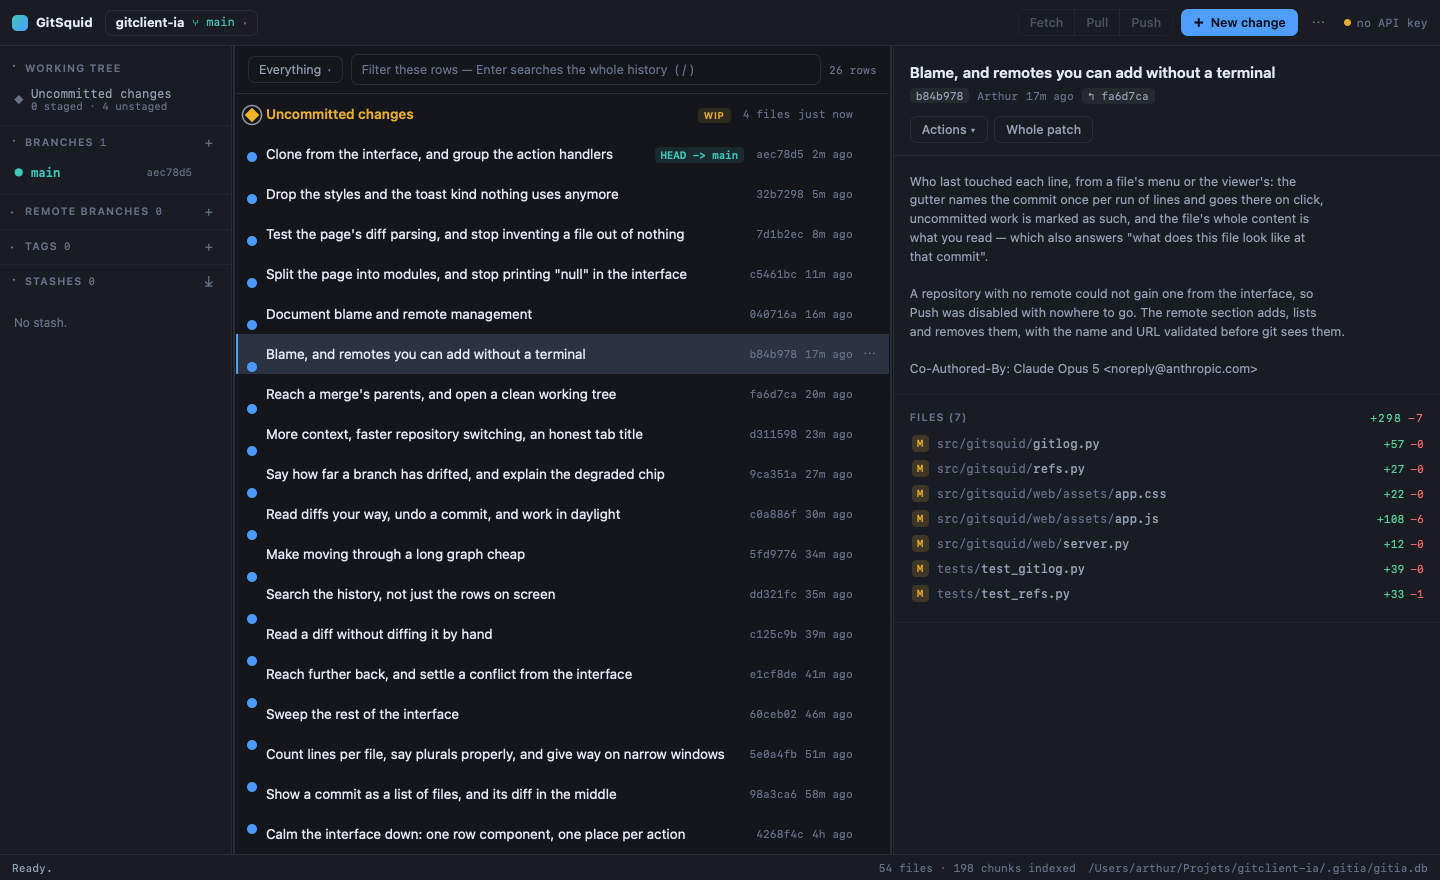
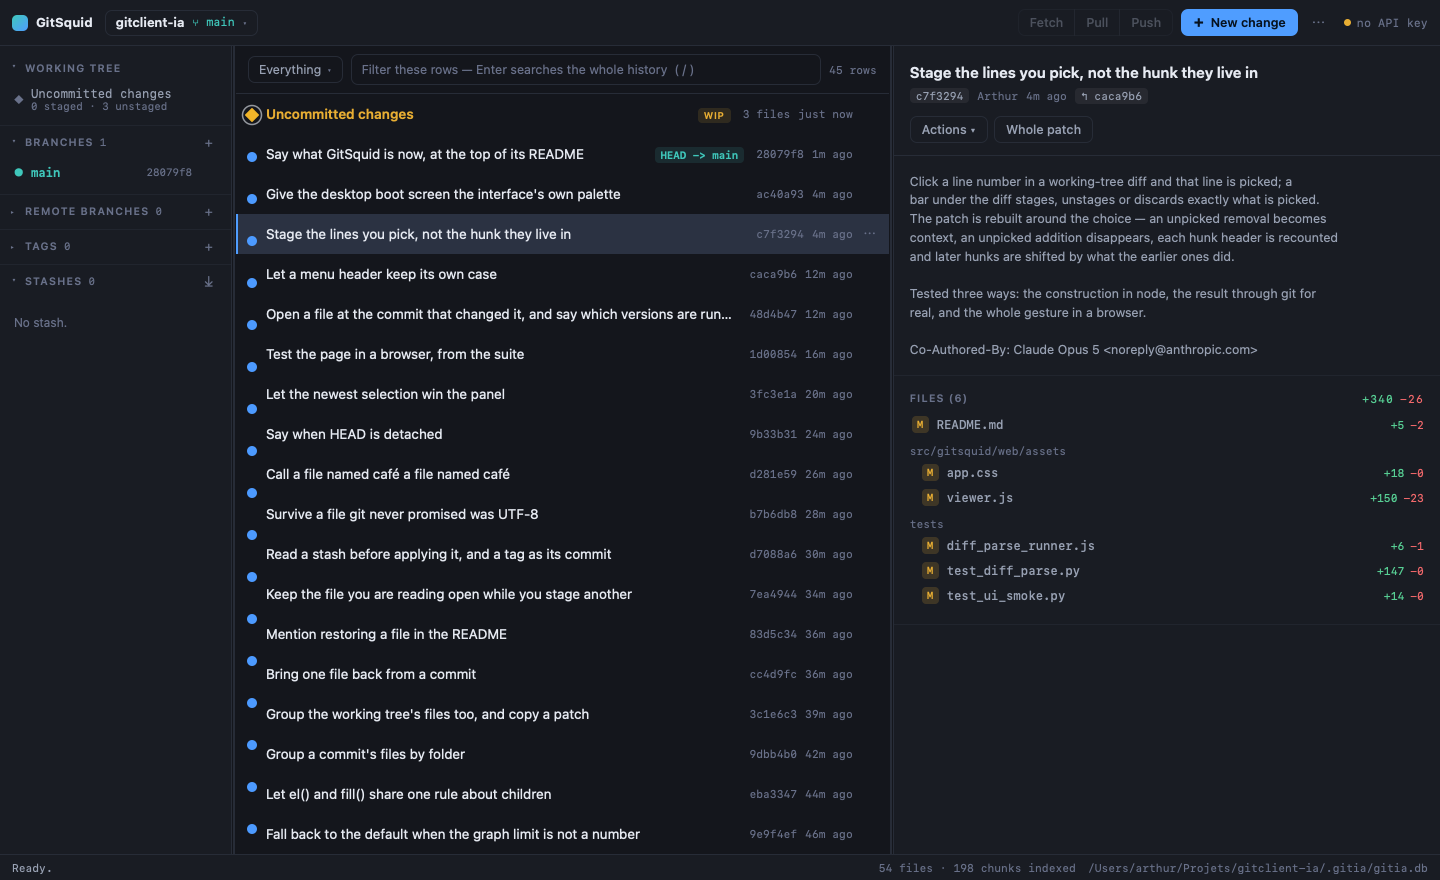
Name the branch on the commit button, and warn when there is none
"Commit 3 files" said nothing about where they were going; it now says
"to main". On a detached HEAD it says instead that no branch is checked
out and that the commit would be easy to lose — the one moment where
that matters.

Screenshots refreshed to the interface as it stands.

diff --git a/src/gitsquid/web/assets/panels.js b/src/gitsquid/web/assets/panels.js
@@ -10,6 +10,7 @@ function renderWorktreeDetail() {
   const staged = files.filter((file) => file.staged);
   const unstaged = files.filter((file) => file.unstaged || file.untracked);
   const repo = state.data.state.repo;
+  const detached = Boolean((repo.head || {}).detached);
 
   detail.append(el("div", { class: "detail-head" }, [
     el("h2", { text: files.length ? "Uncommitted changes" : "Working tree" }),
@@ -49,14 +50,18 @@ function renderWorktreeDetail() {
       el("button", {
         type: "button", class: "btn primary", disabled: !state.amend && staged.length === 0,
         onclick: () => commitStaged(),
-        text: state.amend ? "Amend the last commit" : `Commit ${plural(staged.length, "file")}`,
+        text: state.amend
+          ? "Amend the last commit"
+          : `Commit ${plural(staged.length, "file")}${detached ? "" : ` to ${repo.branch}`}`,
       }),
       el("label", { class: "amend-toggle", for: "commit-amend",
         title: repo.head_message ? "Replace the last commit instead of adding one" : "There is no commit to amend yet" },
         [amendBox, el("span", { text: "Amend" })]),
-      el("span", { class: "staged-note",
-        text: state.amend ? "The last commit is replaced, staged files included."
-          : (staged.length ? "" : "Stage a file to enable the commit.") }),
+      el("span", { class: `staged-note${detached ? " warn" : ""}`,
+        text: detached
+          ? "No branch is checked out: this commit would be easy to lose. Create a branch first."
+          : (state.amend ? "The last commit is replaced, staged files included."
+            : (staged.length ? "" : "Stage a file to enable the commit.")) }),
     ]),
   ]));
 

diff --git a/src/gitsquid/web/assets/app.css b/src/gitsquid/web/assets/app.css
@@ -788,3 +788,5 @@ body.resizing { cursor: col-resize; user-select: none; }
   box-shadow: 0 -6px 18px var(--shadow);
 }
 .pick-bar .btn:nth-of-type(1) { margin-left: auto; }
+
+.commit-box .staged-note.warn { color: var(--amber); }

diff --git a/README.md b/README.md
@@ -48,7 +48,6 @@ see [Degraded mode](#degraded-mode).
 
 ---
 
-
 ## The interface
 
 ![A commit, its files, and the graph behind it](docs/commit.png)
